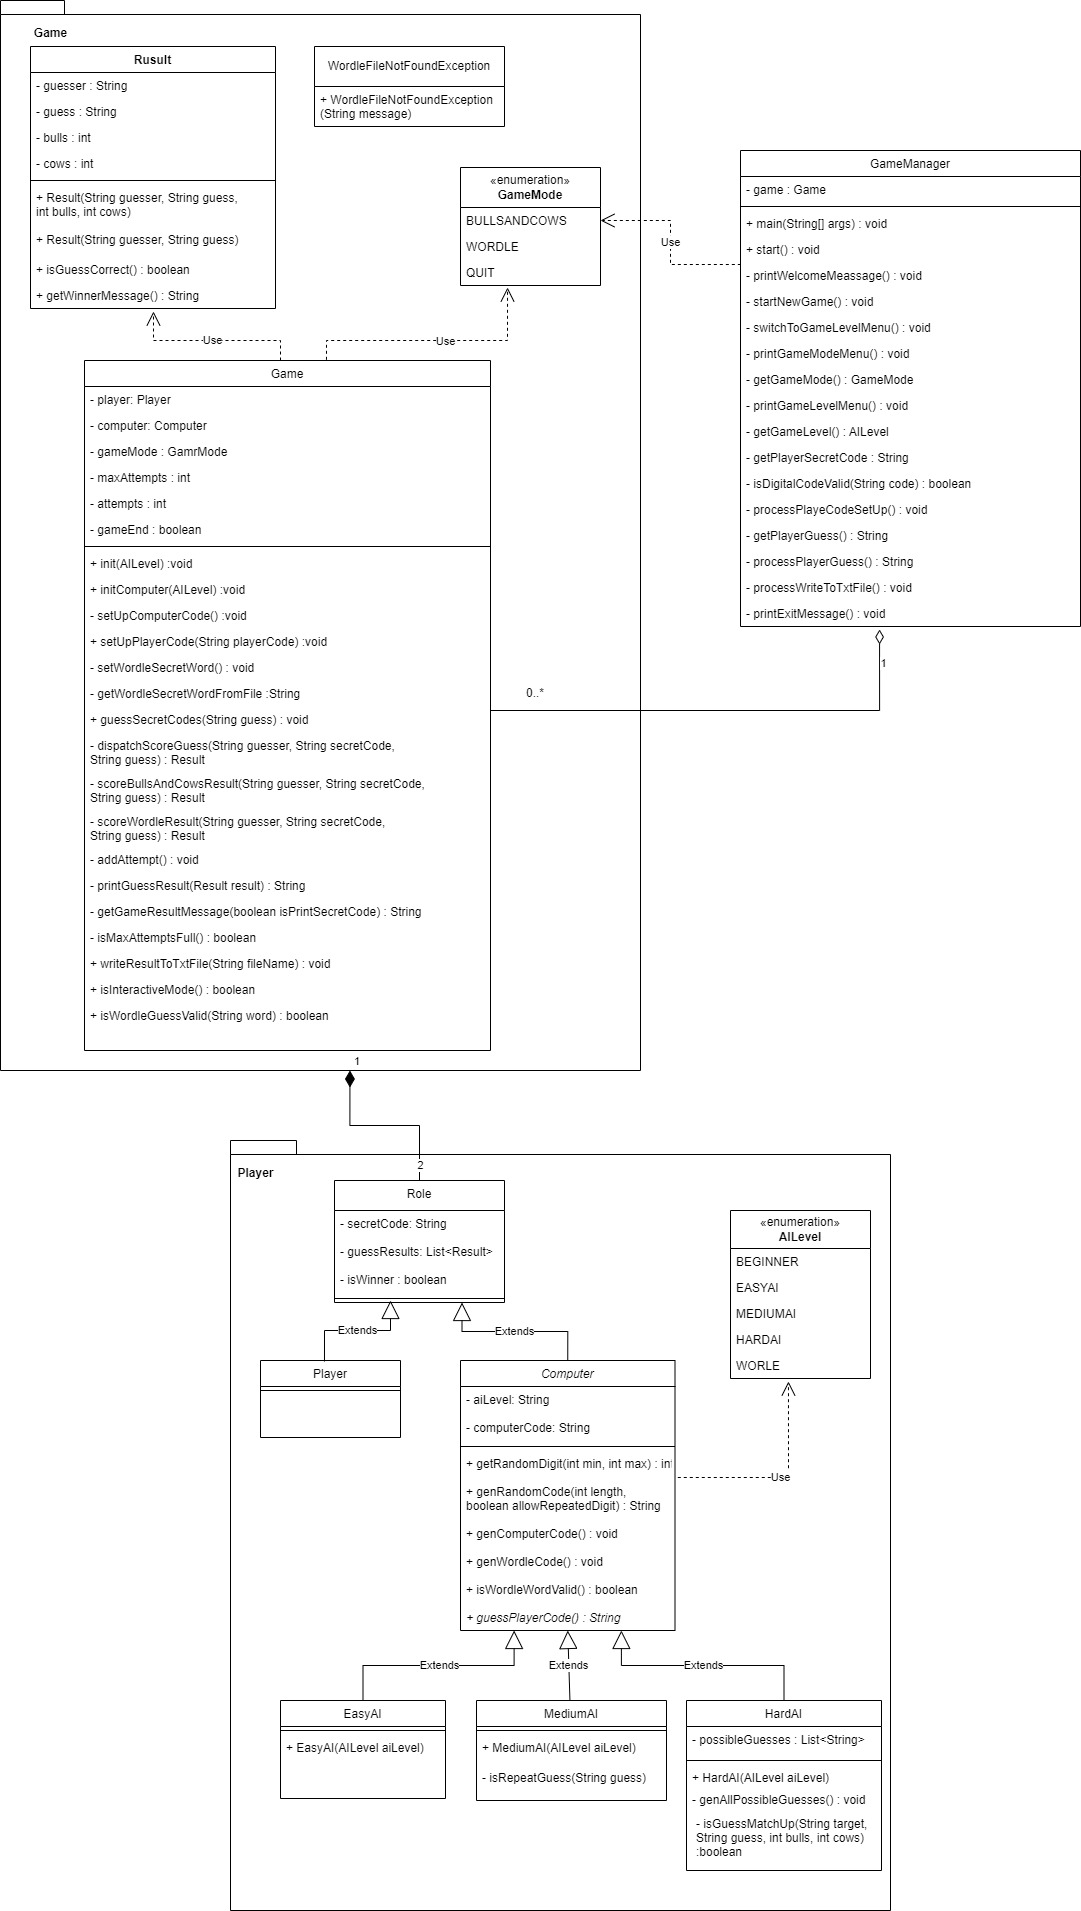
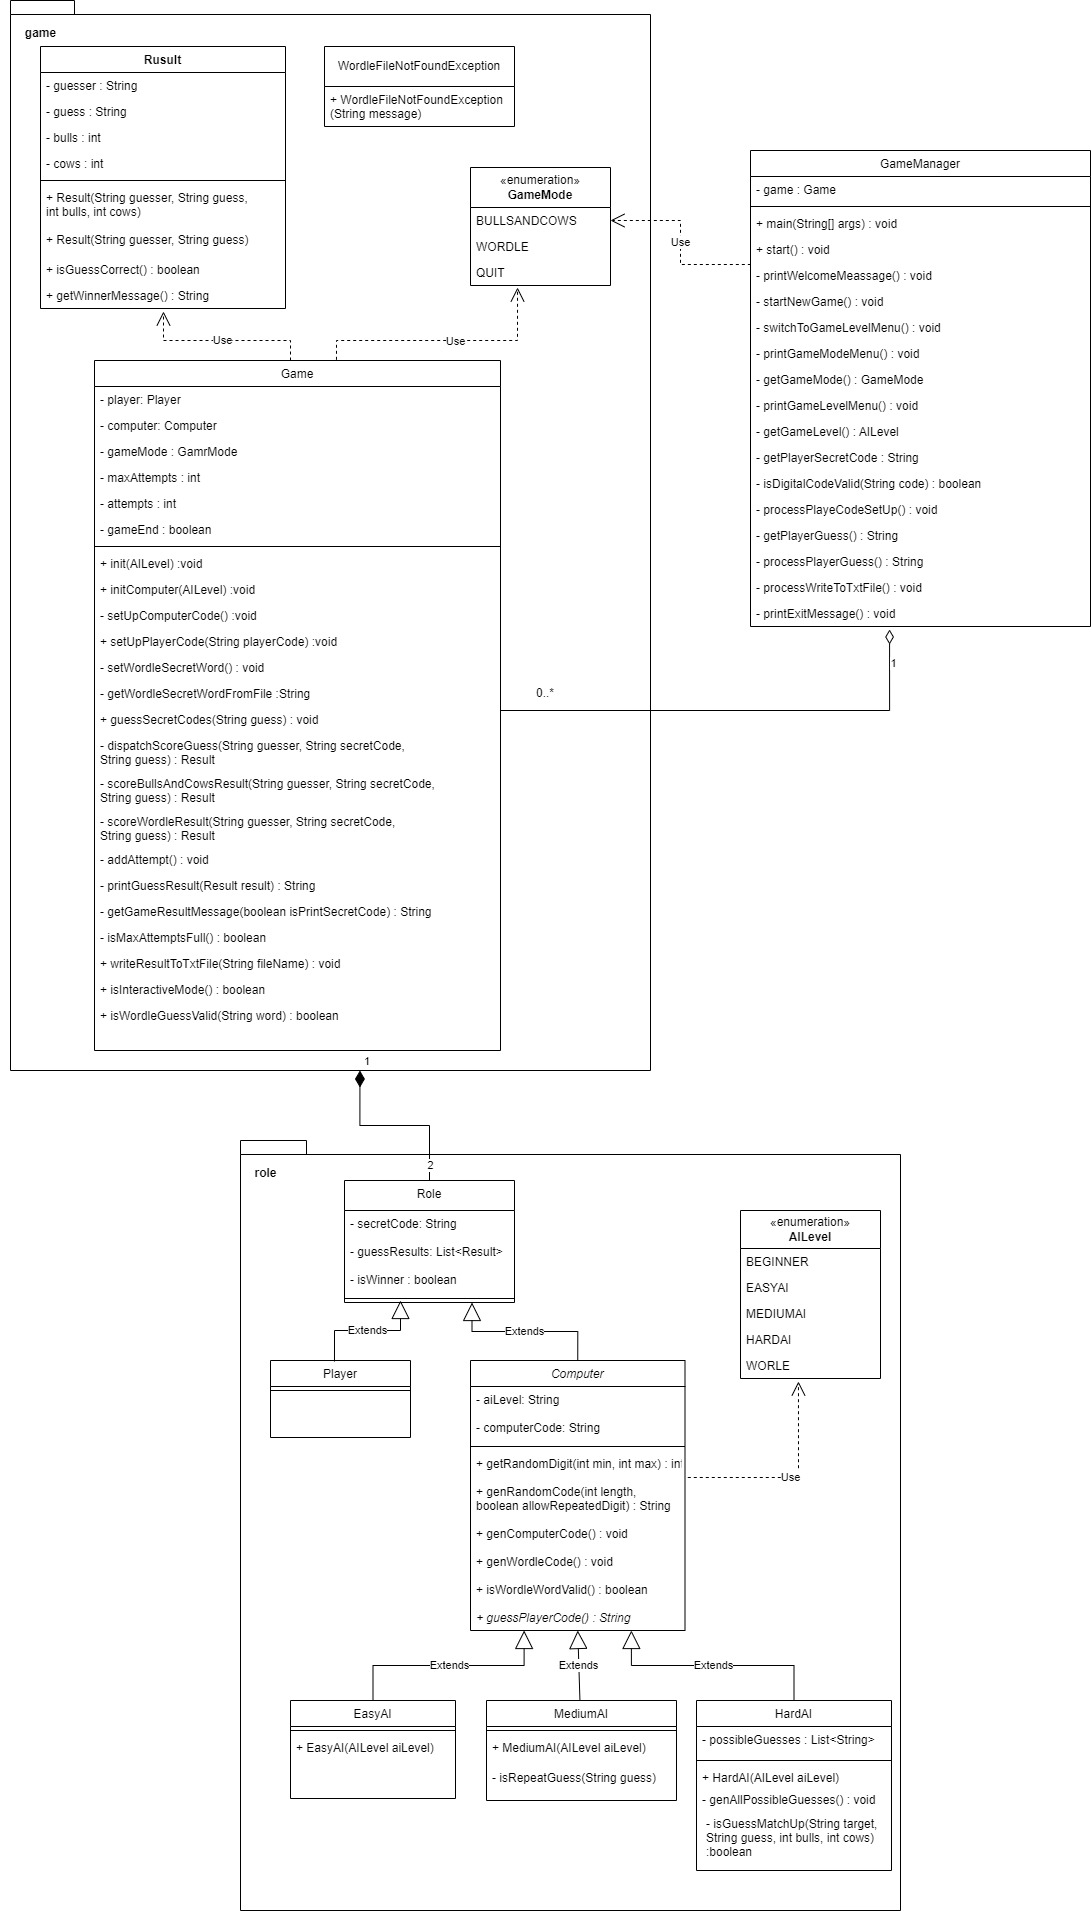
change the name of package

diff --git a/src/GameManager.java b/src/GameManager.java
@@ -1,7 +1,7 @@
 import industry.assignment02.game.Game;
 import industry.assignment02.game.GameMode;
 import industry.assignment02.game.WordleFileNotFoundException;
-import industry.assignment02.player.AILevel;
+import industry.assignment02.role.AILevel;
 
 public class GameManager {
     private Game game;

diff --git a/src/industry/assignment02/role/Computer.java b/src/industry/assignment02/role/Computer.java
@@ -1,4 +1,4 @@
-package industry.assignment02.player;
+package industry.assignment02.role;
 
 import industry.assignment02.game.WordleFileNotFoundException;
 

diff --git a/src/industry/assignment02/game/Game.java b/src/industry/assignment02/game/Game.java
@@ -1,6 +1,6 @@
 package industry.assignment02.game;
 
-import industry.assignment02.player.*;
+import industry.assignment02.role.*;
 
 import java.io.*;
 

diff --git a/src/industry/assignment02/role/MediumAI.java b/src/industry/assignment02/role/MediumAI.java
@@ -1,4 +1,4 @@
-package industry.assignment02.player;
+package industry.assignment02.role;
 
 import java.util.List;
 import java.util.stream.Collectors;

diff --git a/src/industry/assignment02/role/EasyAI.java b/src/industry/assignment02/role/EasyAI.java
@@ -1,4 +1,4 @@
-package industry.assignment02.player;
+package industry.assignment02.role;
 
 public class EasyAI extends Computer {
     /**

diff --git a/src/industry/assignment02/role/HardAI.java b/src/industry/assignment02/role/HardAI.java
@@ -1,4 +1,4 @@
-package industry.assignment02.player;
+package industry.assignment02.role;
 
 import industry.assignment02.game.Result;
 

diff --git a/src/industry/assignment02/role/Role.java b/src/industry/assignment02/role/Role.java
@@ -1,4 +1,4 @@
-package industry.assignment02.player;
+package industry.assignment02.role;
 
 import industry.assignment02.game.Result;
 

diff --git a/src/industry/assignment02/role/Player.java b/src/industry/assignment02/role/Player.java
@@ -1,4 +1,4 @@
-package industry.assignment02.player;
+package industry.assignment02.role;
 
 public class Player extends Role {
 

diff --git a/src/industry/assignment02/role/AILevel.java b/src/industry/assignment02/role/AILevel.java
@@ -1,4 +1,4 @@
-package industry.assignment02.player;
+package industry.assignment02.role;
 
 /**
  * //enumeration of AI Level
